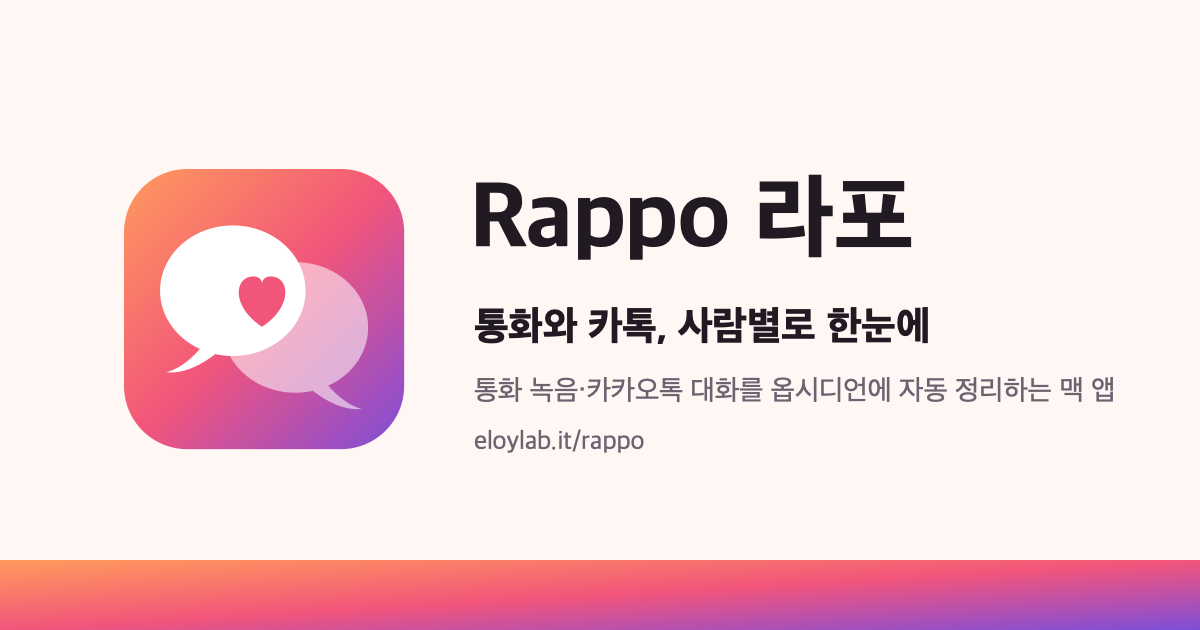
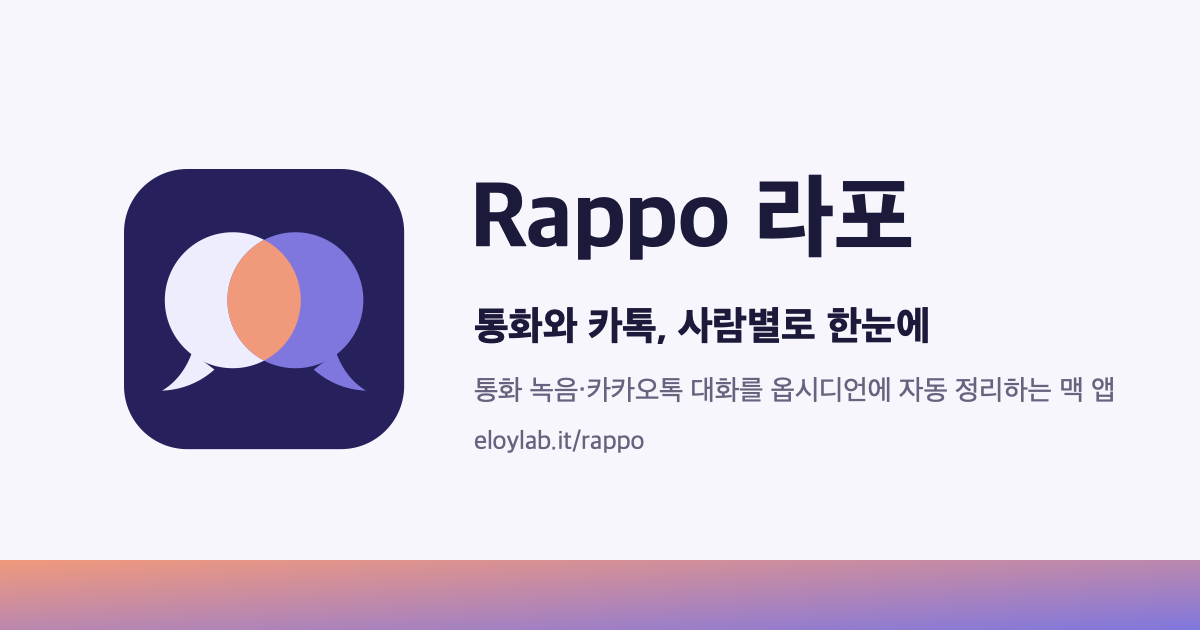
라포 아이콘·색 교체 (교집합 말풍선)

Changed region(s): [[0.0, 0.8746, 1.0, 1.0], [0.0925, 0.2413, 0.3392, 0.7238]]

diff --git a/rappo/rappo.css b/rappo/rappo.css
@@ -1,10 +1,10 @@
 :root {
-  --bg: #fff7f4; --card: #fff; --ink: #221a22; --muted: #6e6270; --line: #f0dfe0;
-  --c1: #ff9a5c; --c2: #f2557a; --c3: #7b4fd8;
+  --bg: #f7f6fd; --card: #fff; --ink: #1c1a3a; --muted: #66637f; --line: #e4e2f5;
+  --c1: #F0997B; --c2: #a77fc6; --c3: #7F77DD;
   --grad: linear-gradient(135deg, var(--c1), var(--c2) 55%, var(--c3));
 }
 @media (prefers-color-scheme: dark) {
-  :root { --bg: #17131a; --card: #211b24; --ink: #f1eaf2; --muted: #b3a6b6; --line: #352b38; }
+  :root { --bg: #14122b; --card: #1d1a3a; --ink: #eeedfe; --muted: #aeaacb; --line: #2f2b55; }
 }
 * { box-sizing: border-box; }
 html { scroll-behavior: smooth; }
@@ -24,12 +24,12 @@ h1 { font-size: clamp(34px, 5.4vw, 56px); line-height: 1.2; letter-spacing: -.03
 h1 span { background: var(--grad); -webkit-background-clip: text; background-clip: text; color: transparent; }
 .lead { color: var(--muted); font-size: 18px; margin: 0 0 28px; }
 .ctas { display: flex; gap: 10px; flex-wrap: wrap; }
-.btn { display: inline-block; padding: 12px 22px; border-radius: 12px; font-weight: 700; text-decoration: none; color: #fff; background: var(--grad); box-shadow: 0 6px 18px rgba(242, 85, 122, .28); }
+.btn { display: inline-block; padding: 12px 22px; border-radius: 12px; font-weight: 700; text-decoration: none; color: #fff; background: var(--grad); box-shadow: 0 6px 18px rgba(127, 119, 221, .3); }
 .btn:hover { filter: brightness(1.05); }
 .btn.ghost { background: transparent; color: var(--ink); border: 1px solid var(--line); box-shadow: none; }
 .req { color: var(--muted); font-size: 13px; margin: 14px 0 0; }
 
-.mock { background: var(--card); border: 1px solid var(--line); border-radius: 16px; overflow: hidden; box-shadow: 0 20px 50px rgba(80, 30, 60, .12); }
+.mock { background: var(--card); border: 1px solid var(--line); border-radius: 16px; overflow: hidden; box-shadow: 0 20px 50px rgba(38, 33, 92, .14); }
 .mock-bar { display: flex; align-items: center; gap: 6px; padding: 10px 14px; border-bottom: 1px solid var(--line); font-size: 12px; color: var(--muted); }
 .mock-bar i { width: 10px; height: 10px; border-radius: 50%; background: #ff5f57; }
 .mock-bar i:nth-child(2) { background: #febc2e; } .mock-bar i:nth-child(3) { background: #28c840; }
@@ -61,7 +61,7 @@ section h2 { font-size: 14px; letter-spacing: .08em; color: var(--muted); font-w
 
 .install ol { padding-left: 22px; margin: 0 0 16px; }
 .install li { margin-bottom: 12px; }
-pre { background: #1f1720; color: #ffe8ef; padding: 12px 16px; border-radius: 10px; overflow-x: auto; margin: 8px 0; }
+pre { background: #26215C; color: #EEEDFE; padding: 12px 16px; border-radius: 10px; overflow-x: auto; margin: 8px 0; }
 code { font-family: ui-monospace, SFMono-Regular, Menlo, monospace; font-size: .92em; }
 li > code, p > code { background: color-mix(in srgb, var(--ink) 7%, transparent); padding: 1px 6px; border-radius: 6px; }
 .note { color: var(--muted); font-size: 14px; margin: 6px 0; }

diff --git a/index.html b/index.html
@@ -146,8 +146,8 @@
             <div class="pv-bar"><i></i><i></i><i></i><span>Obsidian · 통화기록 대시보드</span></div>
             <div class="pv-screen">
               <svg viewBox="0 0 320 200" role="img" aria-label="카톡과 통화를 합쳐 최근에 연락한 사람 순서로 보여 주는 목록">
-                <defs><linearGradient id="rg" x1="0" y1="0" x2="1" y2="1"><stop offset="0" stop-color="#ff9a5c"/><stop offset=".55" stop-color="#f2557a"/><stop offset="1" stop-color="#7b4fd8"/></linearGradient></defs>
-                <rect width="320" height="200" fill="#fff7f4"/>
+                <defs><linearGradient id="rg" x1="0" y1="0" x2="1" y2="1"><stop offset="0" stop-color="#F0997B"/><stop offset="1" stop-color="#7F77DD"/></linearGradient></defs>
+                <rect width="320" height="200" fill="#f7f6fd"/>
                 <text x="18" y="26" font-size="12" font-weight="800" fill="#221a22">🕘 최근 연락</text>
                 <g font-size="10" fill="#221a22">
                   <g class="r-row" style="--d:0s"><text x="18" y="50" font-weight="700">홍길동</text><text x="302" y="50" text-anchor="end" fill="#8a7e8c">오늘 14:07</text>
@@ -166,7 +166,7 @@
             <div class="pv-foot"><span class="pv-cap">통화·카톡 구분 없이, 최근에 연락한 사람 순서로</span></div>
           </div>
           <div class="card-head">
-            <span class="card-icon" style="--c:#f2557a">💬</span>
+            <span class="card-icon" style="--c:#7F77DD"><img src="rappo/icon.svg" alt="" width="30" height="30" style="border-radius:9px"></span>
             <h3>라포 Rappo</h3>
             <span class="tag">macOS · 옵시디언</span>
           </div>

diff --git a/rappo/index.html b/rappo/index.html
@@ -13,12 +13,12 @@
   <meta property="og:url" content="https://eloylab.it/rappo/">
   <meta property="og:image" content="https://eloylab.it/rappo/og.png">
   <meta name="twitter:card" content="summary_large_image">
-  <meta name="theme-color" content="#fff7f4">
+  <meta name="theme-color" content="#f7f6fd">
   <link rel="icon" href="icon.svg" type="image/svg+xml">
   <link rel="preconnect" href="https://fonts.googleapis.com">
   <link rel="preconnect" href="https://fonts.gstatic.com" crossorigin>
   <link href="https://fonts.googleapis.com/css2?family=Noto+Sans+KR:wght@400;500;700;900&display=swap" rel="stylesheet">
-  <link rel="stylesheet" href="rappo.css?v=1">
+  <link rel="stylesheet" href="rappo.css?v=2">
   <script src="../analytics.js" defer></script>
   <script type="application/ld+json">
   {"@context":"https://schema.org","@type":"SoftwareApplication","name":"Rappo","alternateName":"라포",
